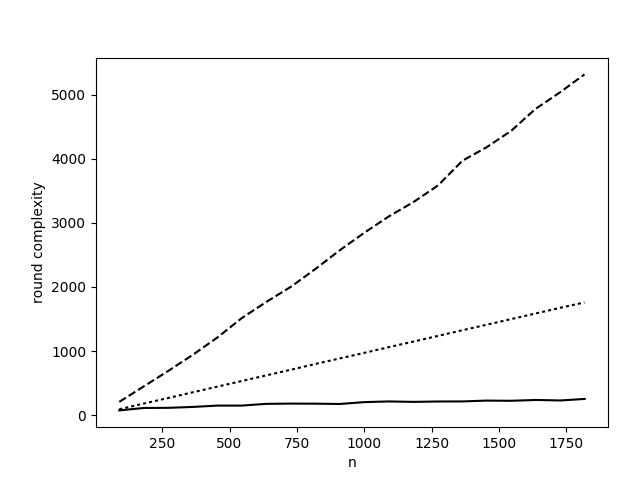
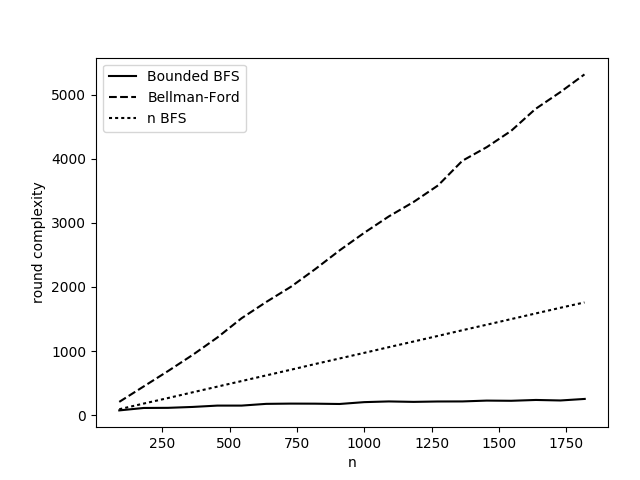
new figures

Changed region(s): [[0.1562, 0.125, 0.375, 0.2812]]

diff --git a/Statistic.py b/Statistic.py
@@ -136,11 +136,12 @@ def drawFicGirth(x,y,labelx,labely,filename):
 
 # generate pictures
 def drawFic(gx,gy,bx,by,tx,ty,labelx,labely,filename):
-    plt.plot(gx,gy,"k-")
-    plt.plot(bx,by,"k--")
-    plt.plot(tx,ty,"k:")
+    l1, = plt.plot(gx,gy,"k-")
+    l2, = plt.plot(bx,by,"k--")
+    l3, = plt.plot(tx,ty,"k:")
     plt.xlabel(labelx)
     plt.ylabel(labely)
+    plt.legend(handles=[l1,l2,l3], labels=['Bounded BFS','Bellman-Ford','n BFS'],loc='best')
     plt.subplots_adjust(left=0.15,right=0.95)
     plt.savefig("resultPics/"+filename+".png", format='png')
     #plt.show()
